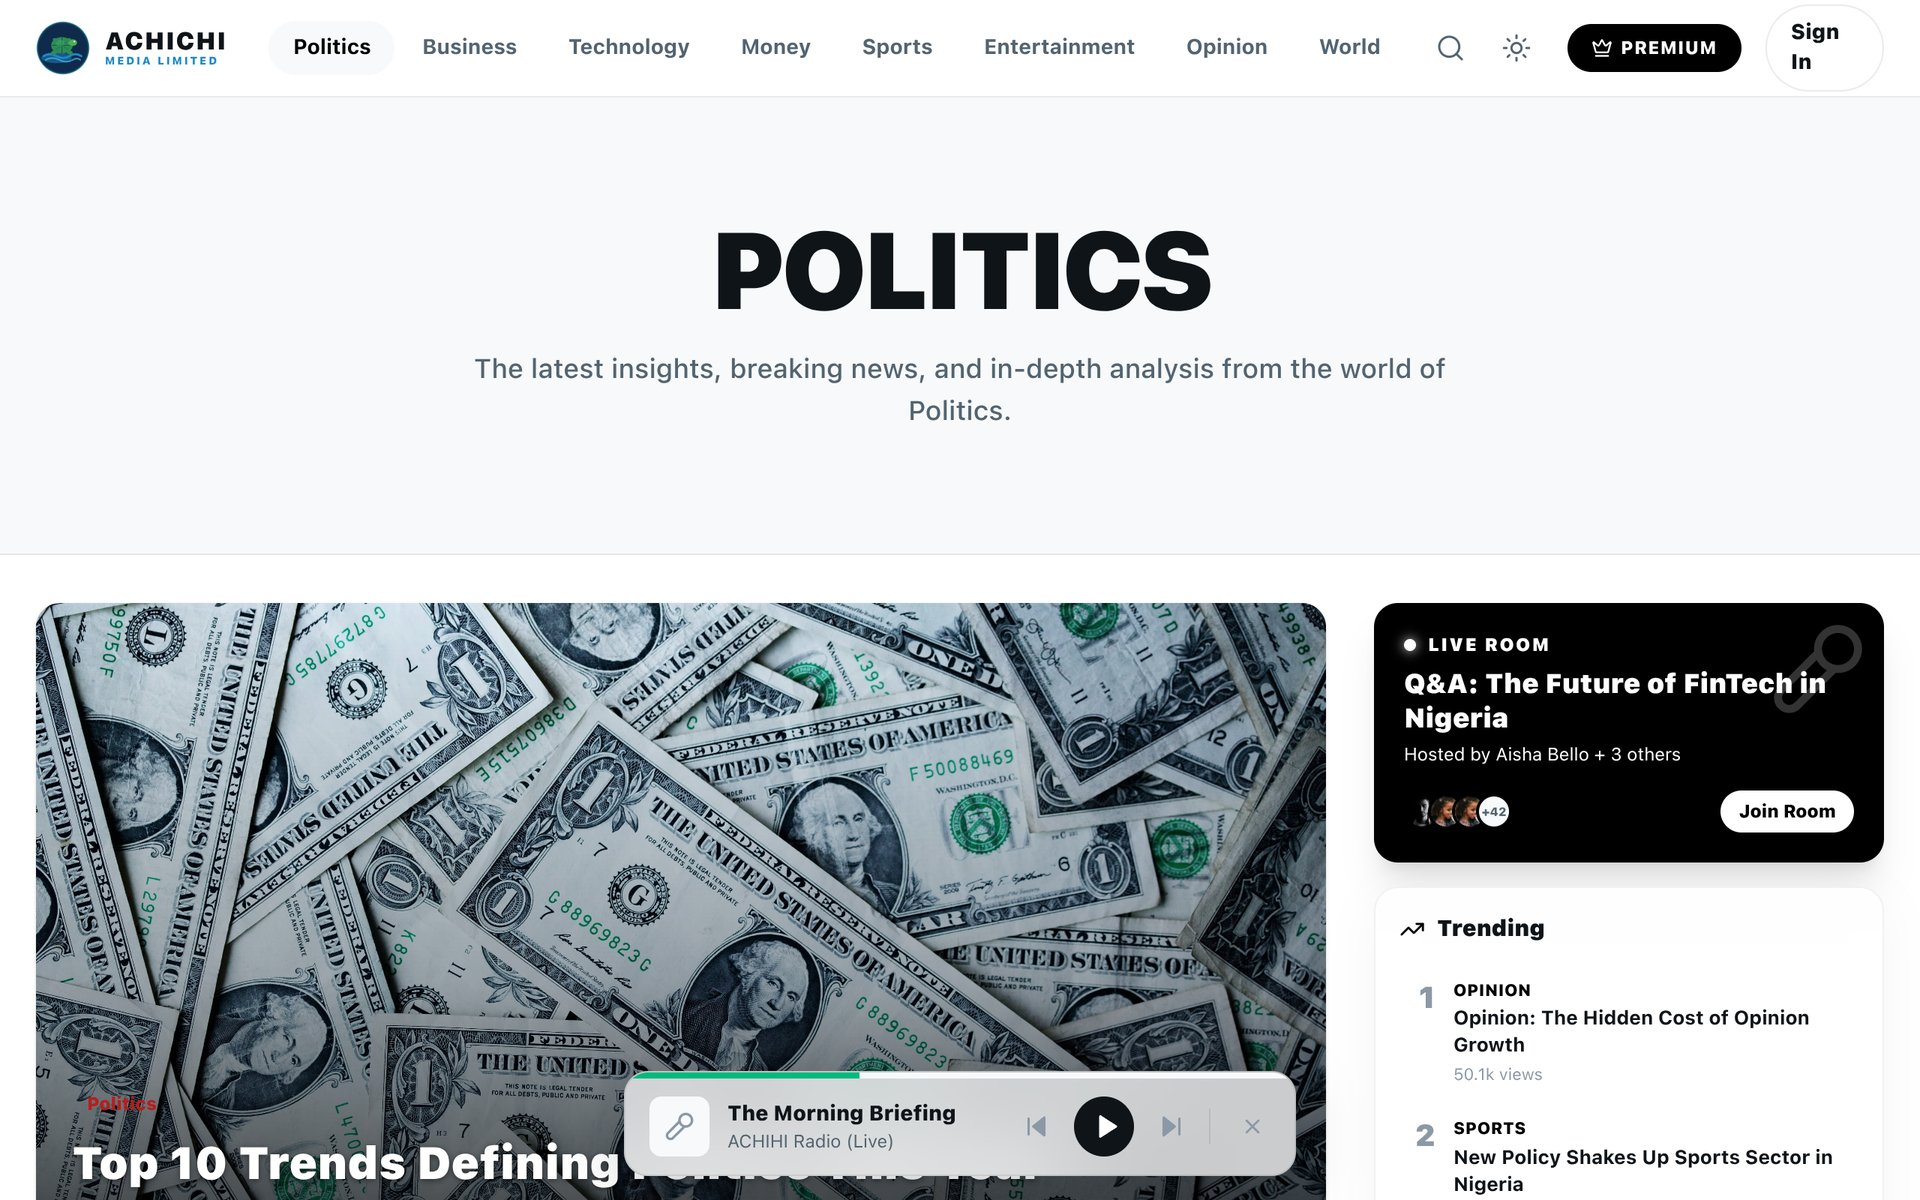
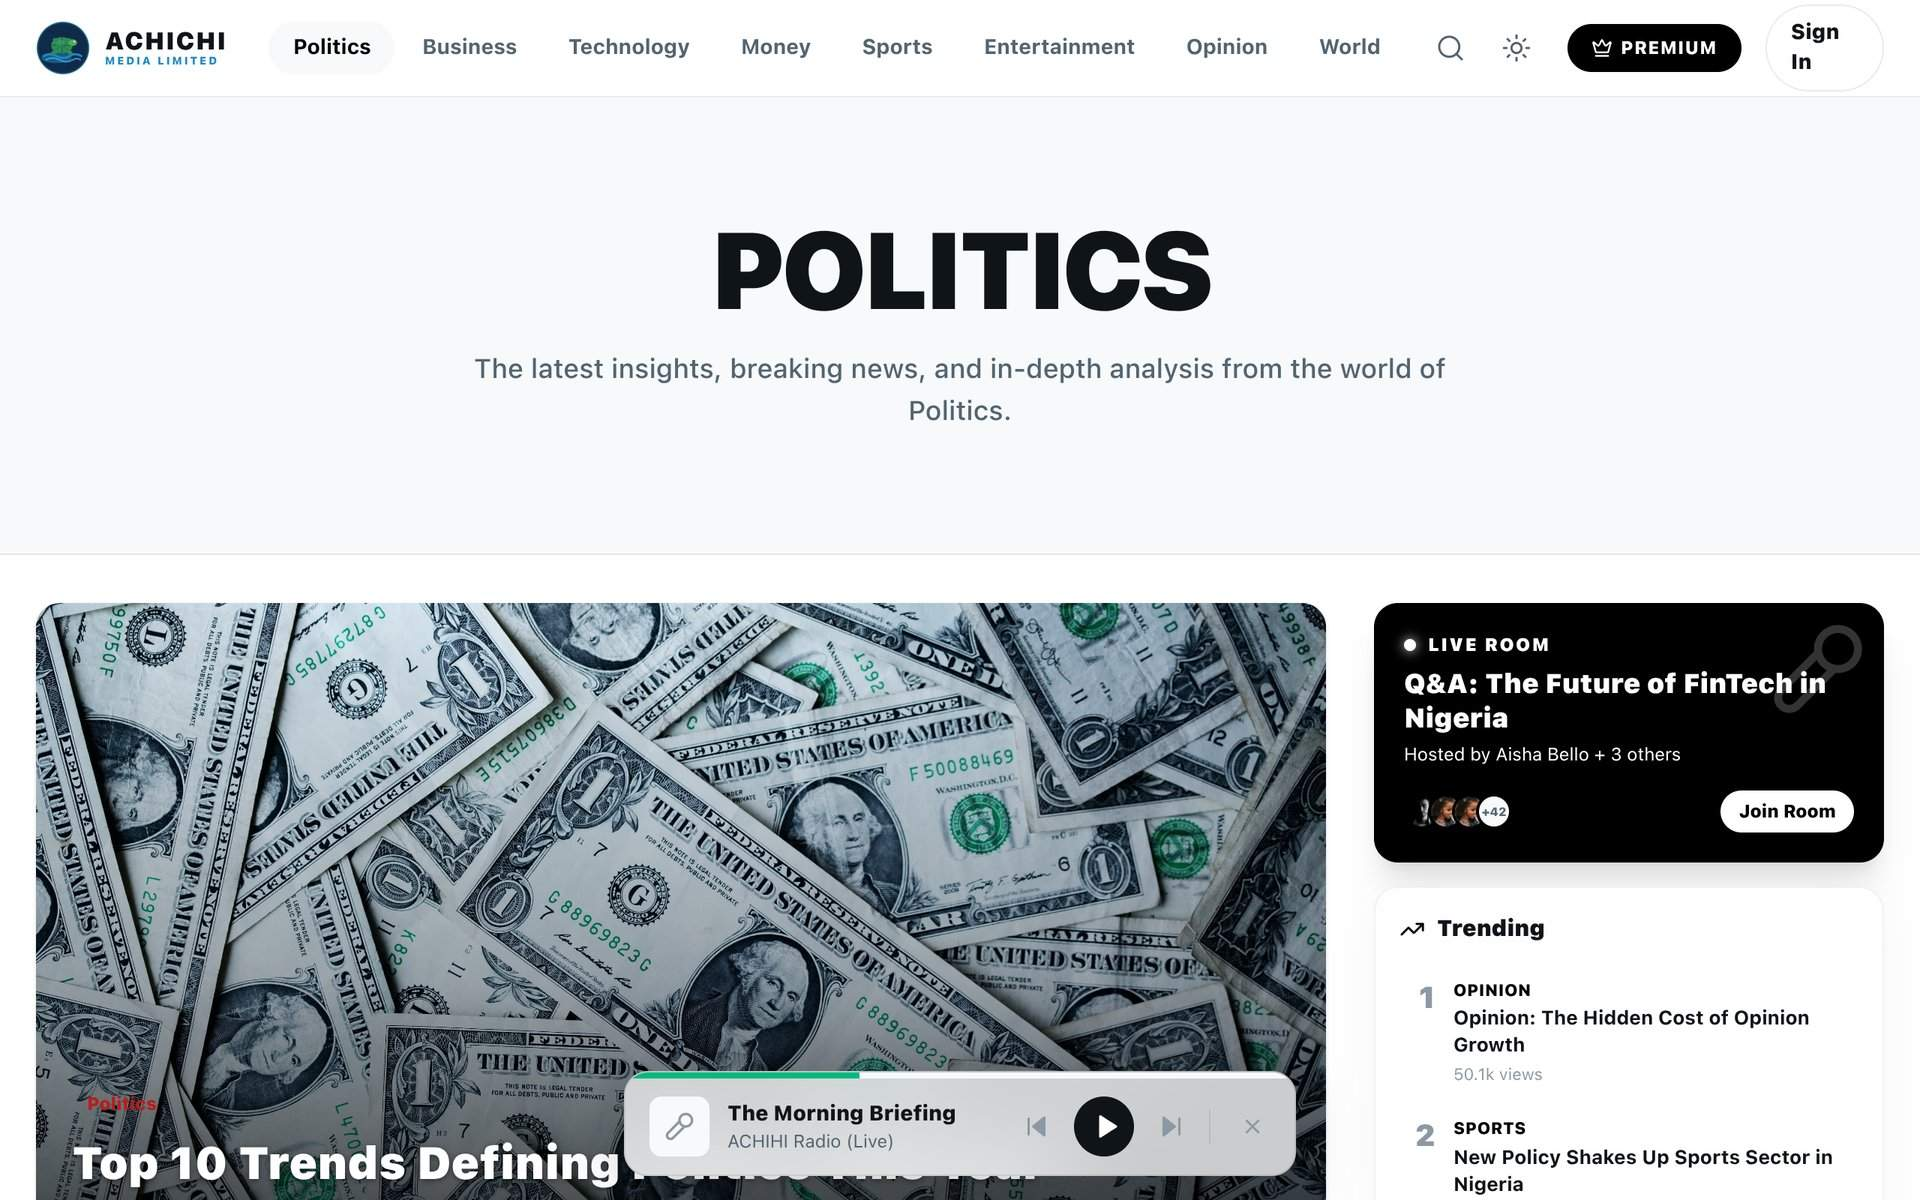
feat(gallery): complete high-fidelity screenshots for all live deployments and projects

diff --git a/src/components/ProjectModal.jsx b/src/components/ProjectModal.jsx
@@ -10,12 +10,14 @@ export default function ProjectModal({ project, isOpen, onClose }) {
   const [isPlaying, setIsPlaying] = useState(false);
   const [isMuted, setIsMuted] = useState(true);
   const [copiedCode, setCopiedCode] = useState(false);
+  const [selectedImageIndex, setSelectedImageIndex] = useState(0);
   const videoRef = useRef(null);
 
   useEffect(() => {
     if (project) {
       setActiveTab(project.initialTab || 'highlights');
       setIsPlaying(false);
+      setSelectedImageIndex(0);
     }
   }, [project]);
 
@@ -33,6 +35,12 @@ export default function ProjectModal({ project, isOpen, onClose }) {
   }, [isOpen, project, onClose]);
 
   if (!isOpen || !project) return null;
+
+  const galleryItems = (project.gallery && project.gallery.length > 0)
+    ? project.gallery.map(item => typeof item === 'string' ? { url: item, title: project.title } : item)
+    : project.coverImage ? [{ url: project.coverImage, title: project.title }] : [];
+
+  const activeImage = galleryItems[selectedImageIndex] || { url: project.coverImage, title: project.title };
 
   const togglePlay = () => {
     if (!videoRef.current) return;
@@ -150,34 +158,66 @@ export default function ProjectModal({ project, isOpen, onClose }) {
             </div>
 
             {/* Media Presentation: Video, Cover or Architectural Blueprint */}
-            {project.coverImage || (project.hasVideo && project.videoUrl) ? (
-              <div className="relative aspect-video w-full rounded-2xl overflow-hidden bg-black/90 border border-white/10 shadow-lg">
-                {project.hasVideo && project.videoUrl ? (
-                  <>
-                    <video
-                      ref={videoRef}
-                      src={project.videoUrl}
-                      poster={project.coverImage}
-                      playsInline
-                      loop
-                      muted={isMuted}
-                      className="w-full h-full object-cover"
-                    />
-                    <div className="absolute bottom-3 right-3 flex items-center gap-2 bg-black/70 backdrop-blur-md px-3.5 py-1.5 rounded-full text-xs font-mono text-white border border-white/20">
-                      <button onClick={togglePlay} className="hover:opacity-80 active:scale-90">
-                        {isPlaying ? <Pause size={14} /> : <Play size={14} className="fill-white" />}
+            {activeImage?.url || (project.hasVideo && project.videoUrl) ? (
+              <div className="space-y-3">
+                <div className="relative aspect-video w-full rounded-2xl overflow-hidden bg-black/90 border border-white/10 shadow-lg">
+                  {project.hasVideo && project.videoUrl ? (
+                    <>
+                      <video
+                        ref={videoRef}
+                        src={project.videoUrl}
+                        poster={activeImage?.url || project.coverImage}
+                        playsInline
+                        loop
+                        muted={isMuted}
+                        className="w-full h-full object-cover"
+                      />
+                      <div className="absolute bottom-3 right-3 flex items-center gap-2 bg-black/70 backdrop-blur-md px-3.5 py-1.5 rounded-full text-xs font-mono text-white border border-white/20">
+                        <button onClick={togglePlay} className="hover:opacity-80 active:scale-90">
+                          {isPlaying ? <Pause size={14} /> : <Play size={14} className="fill-white" />}
+                        </button>
+                        <button onClick={toggleMute} className="hover:opacity-80 active:scale-90">
+                          {isMuted ? <VolumeX size={14} /> : <Volume2 size={14} />}
+                        </button>
+                      </div>
+                    </>
+                  ) : (
+                    <>
+                      <img
+                        src={activeImage?.url}
+                        alt={activeImage?.title || project.title}
+                        className="w-full h-full object-cover transition-opacity duration-200"
+                      />
+                      {activeImage?.title && galleryItems.length > 1 && (
+                        <div className="absolute bottom-0 inset-x-0 bg-gradient-to-t from-black/85 via-black/40 to-transparent px-4 py-3 text-white text-xs font-mono flex items-center justify-between pointer-events-none">
+                          <span className="truncate pr-3 font-medium text-xs sm:text-sm text-zinc-100">{activeImage.title}</span>
+                          <span className="shrink-0 text-[11px] text-zinc-300 font-mono">
+                            {selectedImageIndex + 1} / {galleryItems.length}
+                          </span>
+                        </div>
+                      )}
+                    </>
+                  )}
+                </div>
+
+                {/* Multiple Gallery Thumbnails Bar */}
+                {galleryItems.length > 1 && (
+                  <div className="flex items-center gap-2 overflow-x-auto no-scrollbar py-0.5">
+                    {galleryItems.map((img, idx) => (
+                      <button
+                        key={idx}
+                        onClick={() => setSelectedImageIndex(idx)}
+                        className={`relative shrink-0 w-20 sm:w-24 aspect-video rounded-xl overflow-hidden border transition-all ${
+                          selectedImageIndex === idx
+                            ? 'border-zinc-950 dark:border-white ring-2 ring-zinc-950/20 dark:ring-white/20 scale-[1.02]'
+                            : 'border-[var(--border-subtle)] opacity-60 hover:opacity-100'
+                        }`}
+                        title={img.title}
+                      >
+                        <img src={img.url} alt={img.title} className="w-full h-full object-cover" />
                       </button>
-                      <button onClick={toggleMute} className="hover:opacity-80 active:scale-90">
-                        {isMuted ? <VolumeX size={14} /> : <Volume2 size={14} />}
-                      </button>
-                    </div>
-                  </>
-                ) : (
-                  <img
-                    src={project.coverImage}
-                    alt={project.title}
-                    className="w-full h-full object-cover"
-                  />
+                    ))}
+                  </div>
                 )}
               </div>
             ) : (

diff --git a/src/data/projects.js b/src/data/projects.js
@@ -89,10 +89,31 @@ export const projectsData = [
     "year": "2026",
     "featured": true,
     "badge": "BSc Capstone / Flagship",
-    "coverImage": null,
+    "coverImage": "/media/dmex_dashboard.webp",
     "videoUrl": null,
     "hasVideo": false,
-    "gallery": [],
+    "gallery": [
+      {
+        "url": "/media/dmex_dashboard.webp",
+        "title": "D MEX Protocol Web3 Trading Dashboard"
+      },
+      {
+        "url": "/media/dmex_protocol.jpg",
+        "title": "D MEX Protocol Cross Game Trading Architecture"
+      },
+      {
+        "url": "/media/dmex_contracts_test.webp",
+        "title": "Smart Contract Implementation & Foundry Benchmarks"
+      },
+      {
+        "url": "/media/dmex_gas_benchmark.webp",
+        "title": "Gas Execution Savings & Yul Invariant Benchmarks"
+      },
+      {
+        "url": "/media/dmex_security_model.webp",
+        "title": "Seven Layer Security Model & Cryptographic Defense"
+      }
+    ],
     "summary": "Trustless cross-chain atomic swap infrastructure engineered for sovereign gaming ecosystems. Eliminates centralized bridge exploits via cryptographic hash-time locked contracts (HTLC), inline Yul assembly optimizations, and EIP-1271 multi-sig support.",
     "role": "Sole Protocol Architect & Smart Contract Engineer",
     "status": "Completed BSc Capstone Protocol",
@@ -255,6 +276,14 @@ export const projectsData = [
       {
         "url": "/media/reavo_apple.webp",
         "title": "Apple Ecosystem & Student Deals"
+      },
+      {
+        "url": "/media/reavo_cart.webp",
+        "title": "Student Checkout & Cart Drawer Verification"
+      },
+      {
+        "url": "/media/reavo_accessories.webp",
+        "title": "Student Tech Accessories & Peripherals Desk"
       }
     ],
     "summary": "Production consumer electronics storefront and specialized Corporate Admin OS powered by Supabase, KoraPay webhook idempotency, automated inventory synchronization, and an autonomous AI operations copilot.",
@@ -344,6 +373,14 @@ export const projectsData = [
       {
         "url": "/media/news_insights_politics.webp",
         "title": "Investigative Politics & Analysis Desk"
+      },
+      {
+        "url": "/media/news_insights_business.webp",
+        "title": "Global Markets & Business Intelligence Desk"
+      },
+      {
+        "url": "/media/news_insights_world.webp",
+        "title": "World Affairs & International Bureau"
       }
     ],
     "summary": "High-throughput digital publishing and investigative journalism portal engineered with Next.js 15 App Router, Supabase PostgreSQL with RLS, TipTap rich text, bespoke obsidian & gold glass luxury subscription modal, and 75 Common Vibe-Coded Web App security defenses.",
@@ -437,6 +474,10 @@ export const projectsData = [
       {
         "url": "/media/antho_collections.webp",
         "title": "Capsule Collections Gallery & Showcase"
+      },
+      {
+        "url": "/media/antho_editorial.webp",
+        "title": "Brand Heritage & Haute Couture Vision"
       }
     ],
     "summary": "Avant-garde youth luxury streetwear commerce platform and digital vault engineered on Next.js 15, React 19, Tailwind CSS, Prisma ORM, and Paystack. Grounded in Nielsen HCI heuristics with visual-first portal navigation, Edge middleware HMAC route protection, and automated Playwright E2E suites.",
@@ -657,8 +698,18 @@ export const projectsData = [
     "videoUrl": null,
     "hasVideo": false,
     "gallery": [
-      "/media/kucheza_gaming.jpg",
-      "/media/kucheza_logo_white.png"
+      {
+        "url": "/media/kucheza_gaming.jpg",
+        "title": "Kucheza Esports 3D Stage & Arena Staging"
+      },
+      {
+        "url": "/media/kucheza_arena_stage.webp",
+        "title": "High Definition 3D Arena Lighting & Spectator Booths"
+      },
+      {
+        "url": "/media/kucheza_logo_white.png",
+        "title": "Official Kucheza Gaming Identity"
+      }
     ],
     "summary": "Six month industrial training in gaming pipelines, 3D interactive tournament stage design in Blender, and corporate sponsorship presentations. Engineered high stakes spatial presentation systems for leading telecommunications and consumer brand partnerships.",
     "role": "R&D Engineer & 3D Staging Designer",

diff --git a/src/data/finishedProjects.js b/src/data/finishedProjects.js
@@ -9,13 +9,29 @@ export const finishedProjectsData = [
     year: "2026",
     statusBadge: "Completed BSc Capstone",
     featured: true,
-    coverImage: "/media/dmex_protocol.jpg",
+    coverImage: "/media/dmex_dashboard.webp",
     videoUrl: null,
     hasVideo: false,
     gallery: [
       {
+        url: "/media/dmex_dashboard.webp",
+        title: "D MEX Protocol Web3 Trading Dashboard"
+      },
+      {
         url: "/media/dmex_protocol.jpg",
-        title: "D MEX Protocol Architecture & Invariants"
+        title: "D MEX Protocol Cross Game Trading Architecture"
+      },
+      {
+        url: "/media/dmex_contracts_test.webp",
+        title: "Smart Contract Implementation & Foundry Benchmarks"
+      },
+      {
+        url: "/media/dmex_gas_benchmark.webp",
+        title: "Gas Execution Savings & Yul Invariant Benchmarks"
+      },
+      {
+        url: "/media/dmex_security_model.webp",
+        title: "Seven Layer Security Model & Cryptographic Defense"
       }
     ],
     summary: "Trustless cross chain atomic swap infrastructure engineered for sovereign gaming ecosystems. Eliminates centralized bridge exploits via cryptographic timelocks and assembly code optimizations.",
@@ -251,6 +267,14 @@ export function calculateBlackScholes(S: number, K: number, T: number, r: number
       {
         url: "/media/reavo_apple.webp",
         title: "Apple Ecosystem & Student Deals"
+      },
+      {
+        url: "/media/reavo_cart.webp",
+        title: "Student Checkout & Cart Drawer Verification"
+      },
+      {
+        url: "/media/reavo_accessories.webp",
+        title: "Student Tech Accessories & Peripherals Desk"
       }
     ],
     summary: "Production consumer electronics storefront and corporate operating system powered by verified payment workflows and automated inventory synchronization. Built with bank grade security rules and an autonomous operations copilot.",
@@ -375,6 +399,14 @@ router.post('/webhook/korapay', async (req, res) => {
       {
         url: "/media/news_insights_politics.webp",
         title: "Investigative Politics & Analysis Desk"
+      },
+      {
+        url: "/media/news_insights_business.webp",
+        title: "Global Markets & Business Intelligence Desk"
+      },
+      {
+        url: "/media/news_insights_world.webp",
+        title: "World Affairs & International Bureau"
       }
     ],
     summary: "High throughput digital publishing and investigative journalism portal engineered with server rendered articles and luxury reader modals. Audited against 75 common web application vulnerabilities with hardened database permissions.",
@@ -496,6 +528,10 @@ USING (status = 'published' AND published_at <= NOW());`
       {
         url: "/media/antho_collections.webp",
         title: "Capsule Collections Gallery & Showcase"
+      },
+      {
+        url: "/media/antho_editorial.webp",
+        title: "Brand Heritage & Haute Couture Vision"
       }
     ],
     summary: "Avant garde luxury streetwear commerce platform engineered with visual first portal navigation and cryptographic route protection. Grounded in human computer interaction heuristics and automated end to end test suites.",
@@ -608,6 +644,10 @@ export async function middleware(req: NextRequest) {
       {
         url: "/media/kucheza_gaming.jpg",
         title: "Kucheza Esports 3D Stage & Arena Staging"
+      },
+      {
+        url: "/media/kucheza_arena_stage.webp",
+        title: "High Definition 3D Arena Lighting & Spectator Booths"
       },
       {
         url: "/media/kucheza_logo_white.png",

diff --git a/scripts/compress-highlights.py b/scripts/compress-highlights.py
@@ -7,10 +7,15 @@ TARGETS = [
     'antho_lookbook',
     'antho_shop',
     'antho_collections',
+    'antho_editorial',
     'news_insights_tech',
     'news_insights_politics',
+    'news_insights_business',
+    'news_insights_world',
     'reavo_shop',
     'reavo_apple',
+    'reavo_cart',
+    'reavo_accessories',
 ]
 
 MAX_WIDTH = 1920
